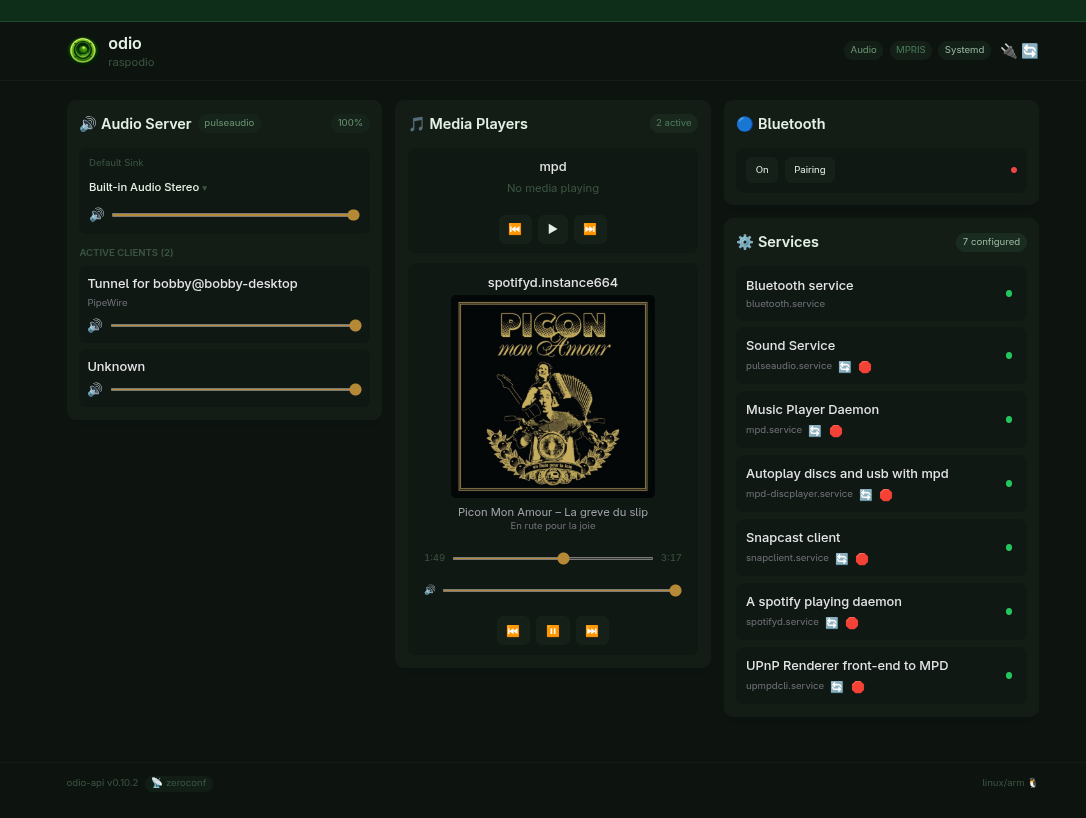
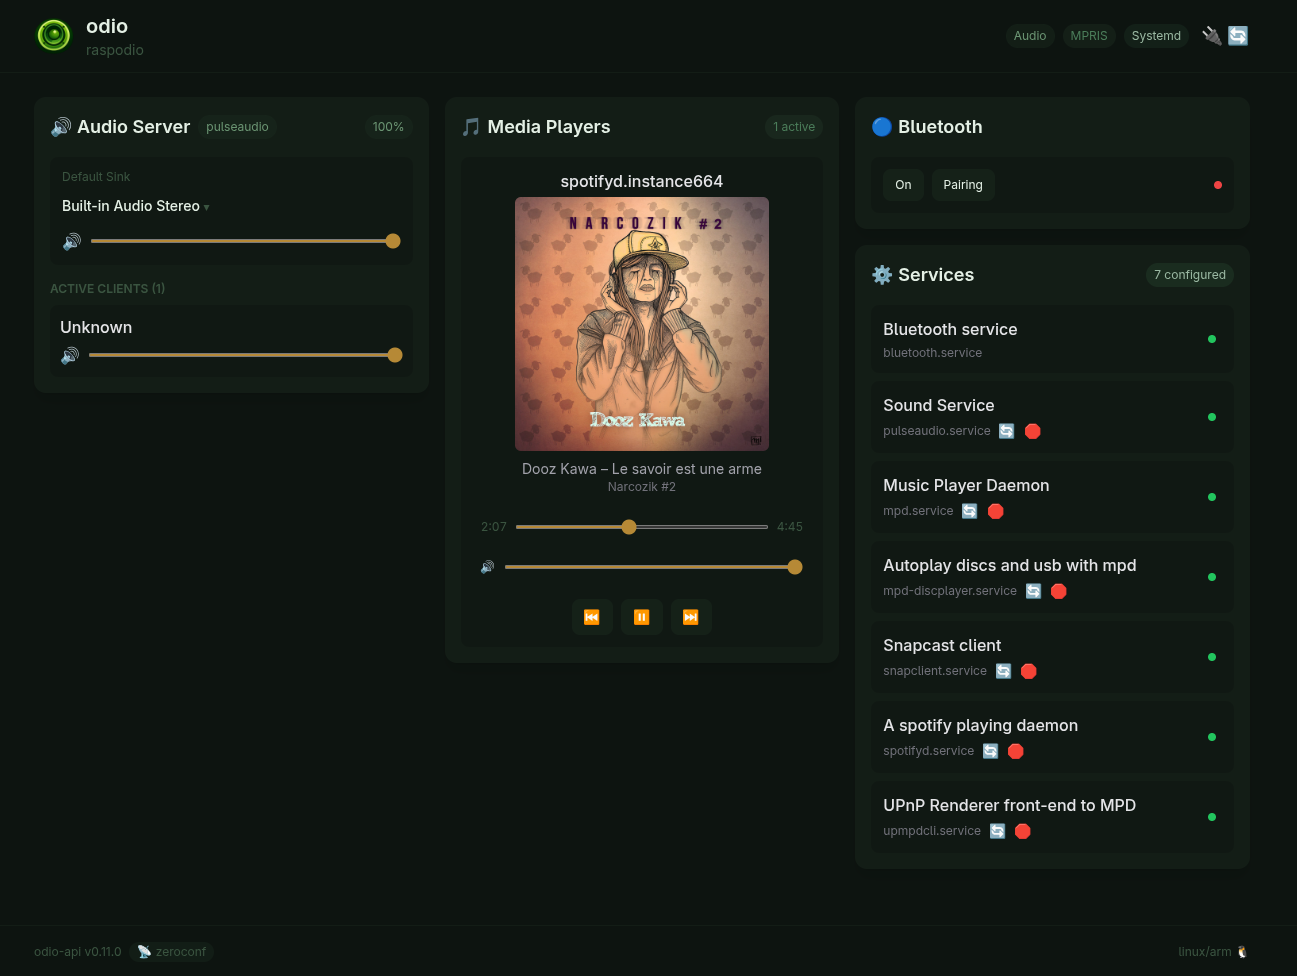
update screenshots and AI section

diff --git a/src/components/Slider.svelte b/src/components/Slider.svelte
@@ -1,6 +1,6 @@
 <script>
   const slides = [
-    { src: '/screenshots/embedded-ui.png', alt: 'Embedded web UI — full dashboard' },
+    { src: '/screenshots/embedded-ui.png', alt: 'Embedded web UI — full dashboard (RIP Dooz Kawa)' },
     { src: '/screenshots/audio-cd-playback.png', alt: 'Audio CD playback with metadata' },
     { src: '/screenshots/bt-playing.png', alt: 'Bluetooth streaming via PWA' },
     { src: '/screenshots/pwa-instances.png', alt: 'PWA — multi-node management' },
